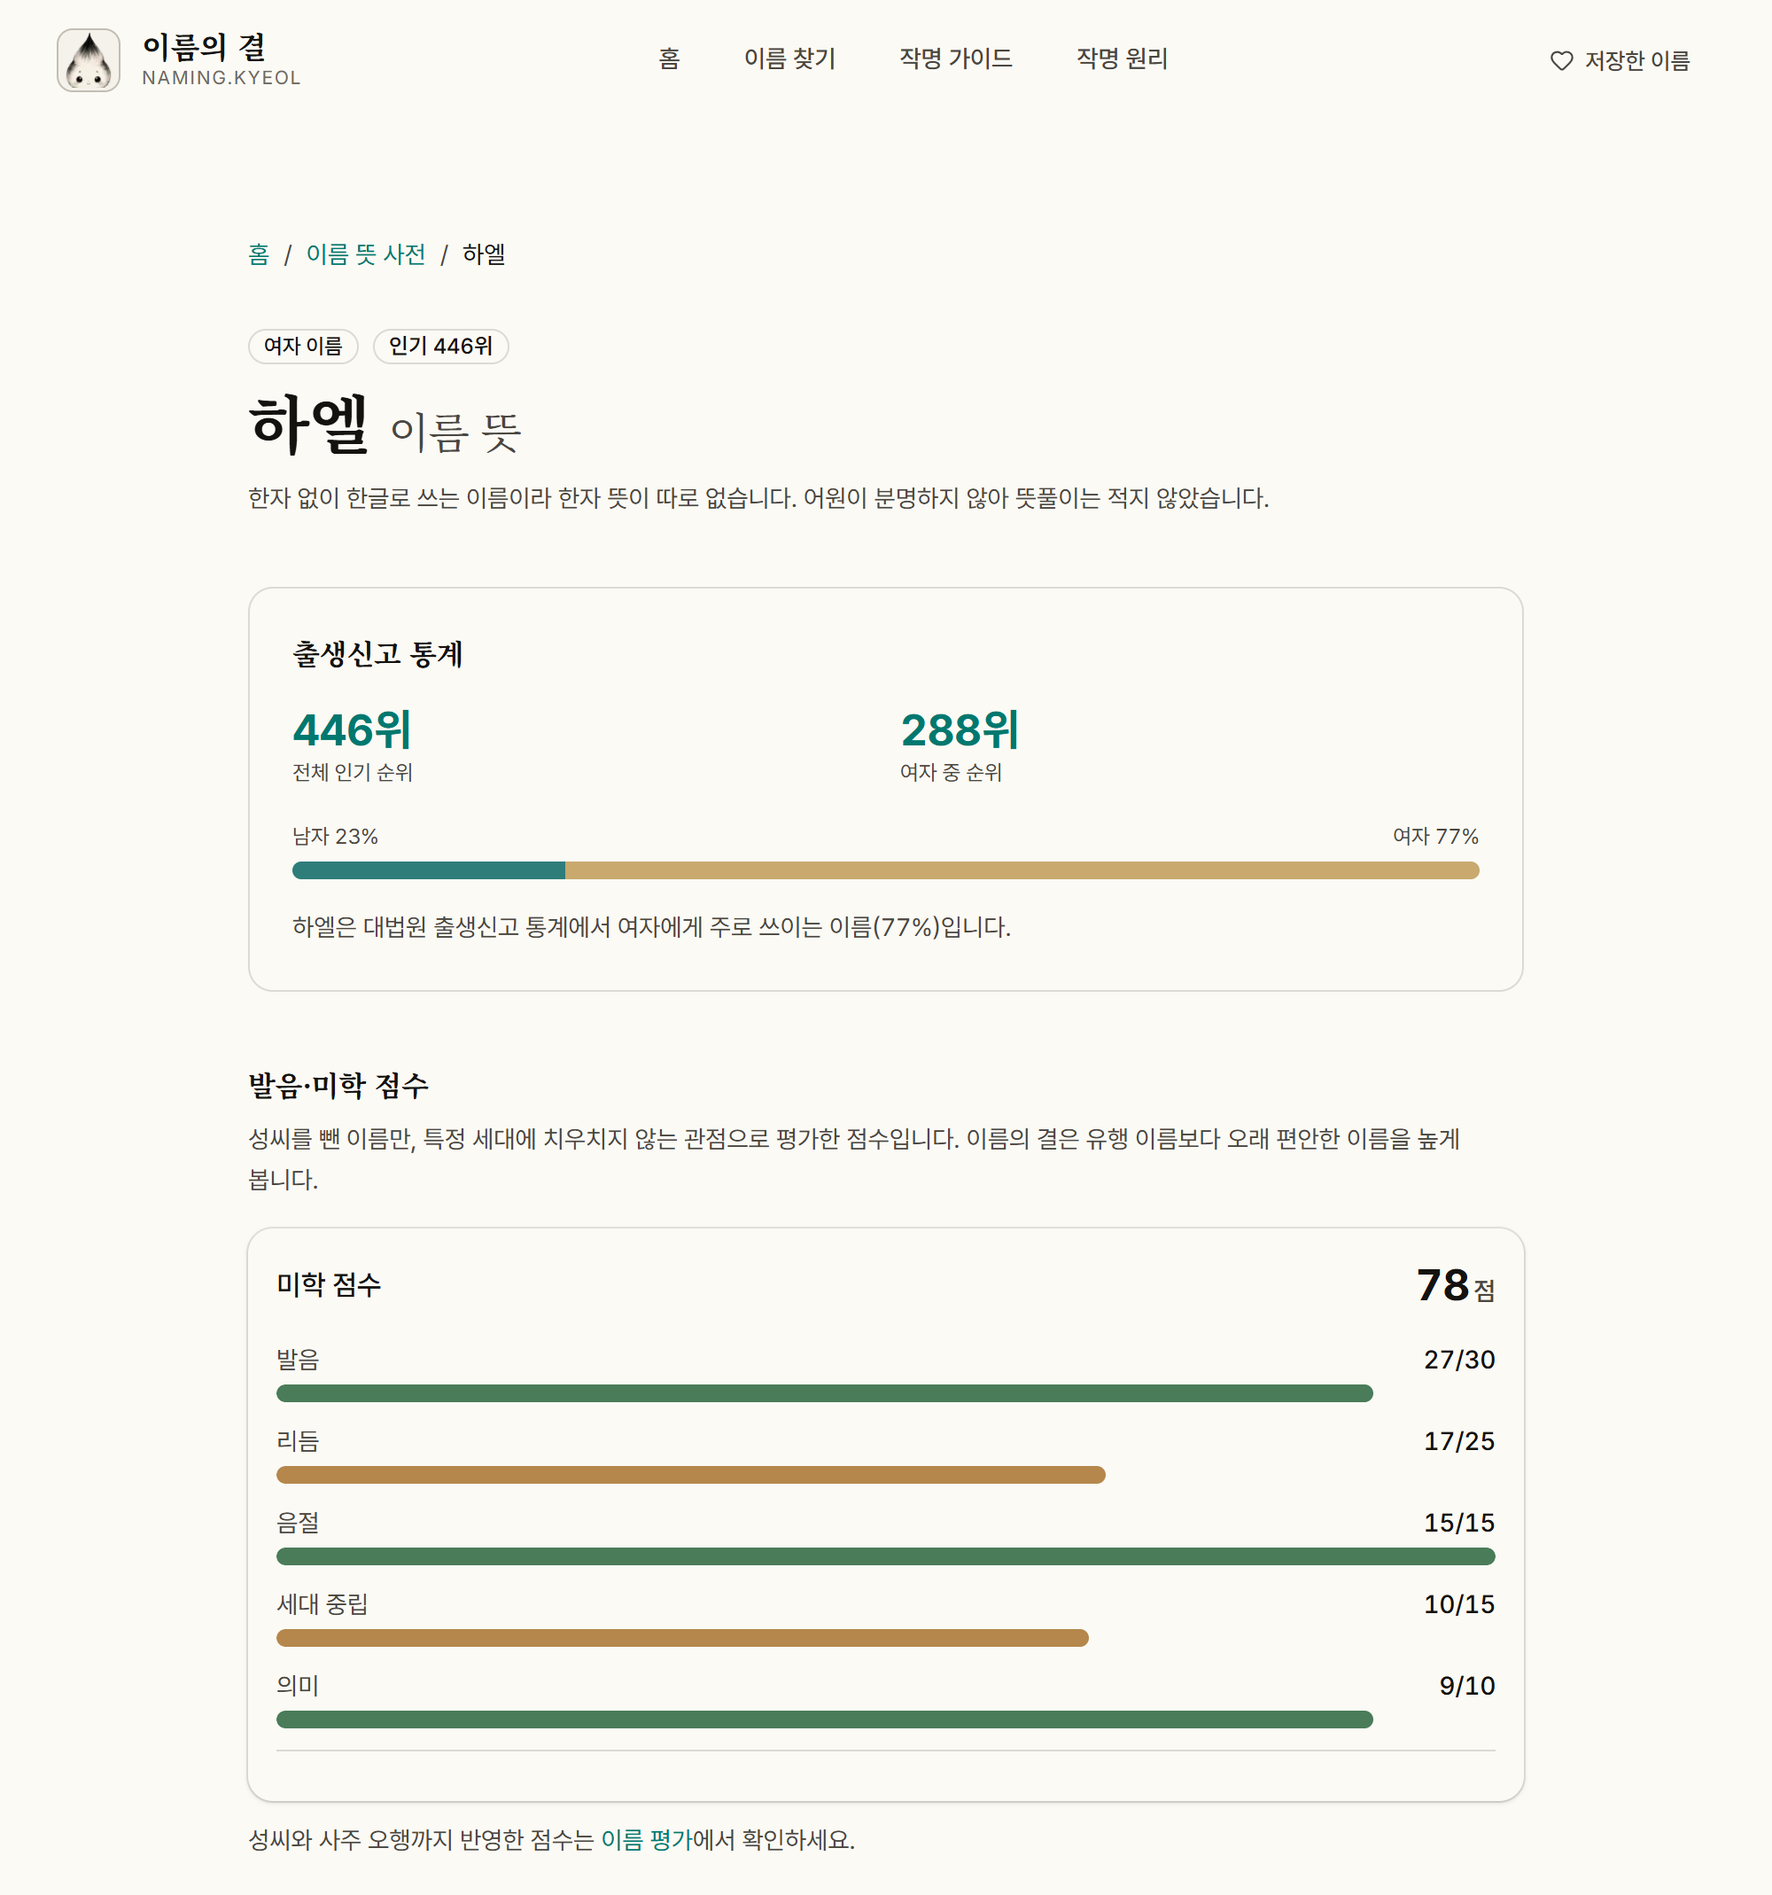
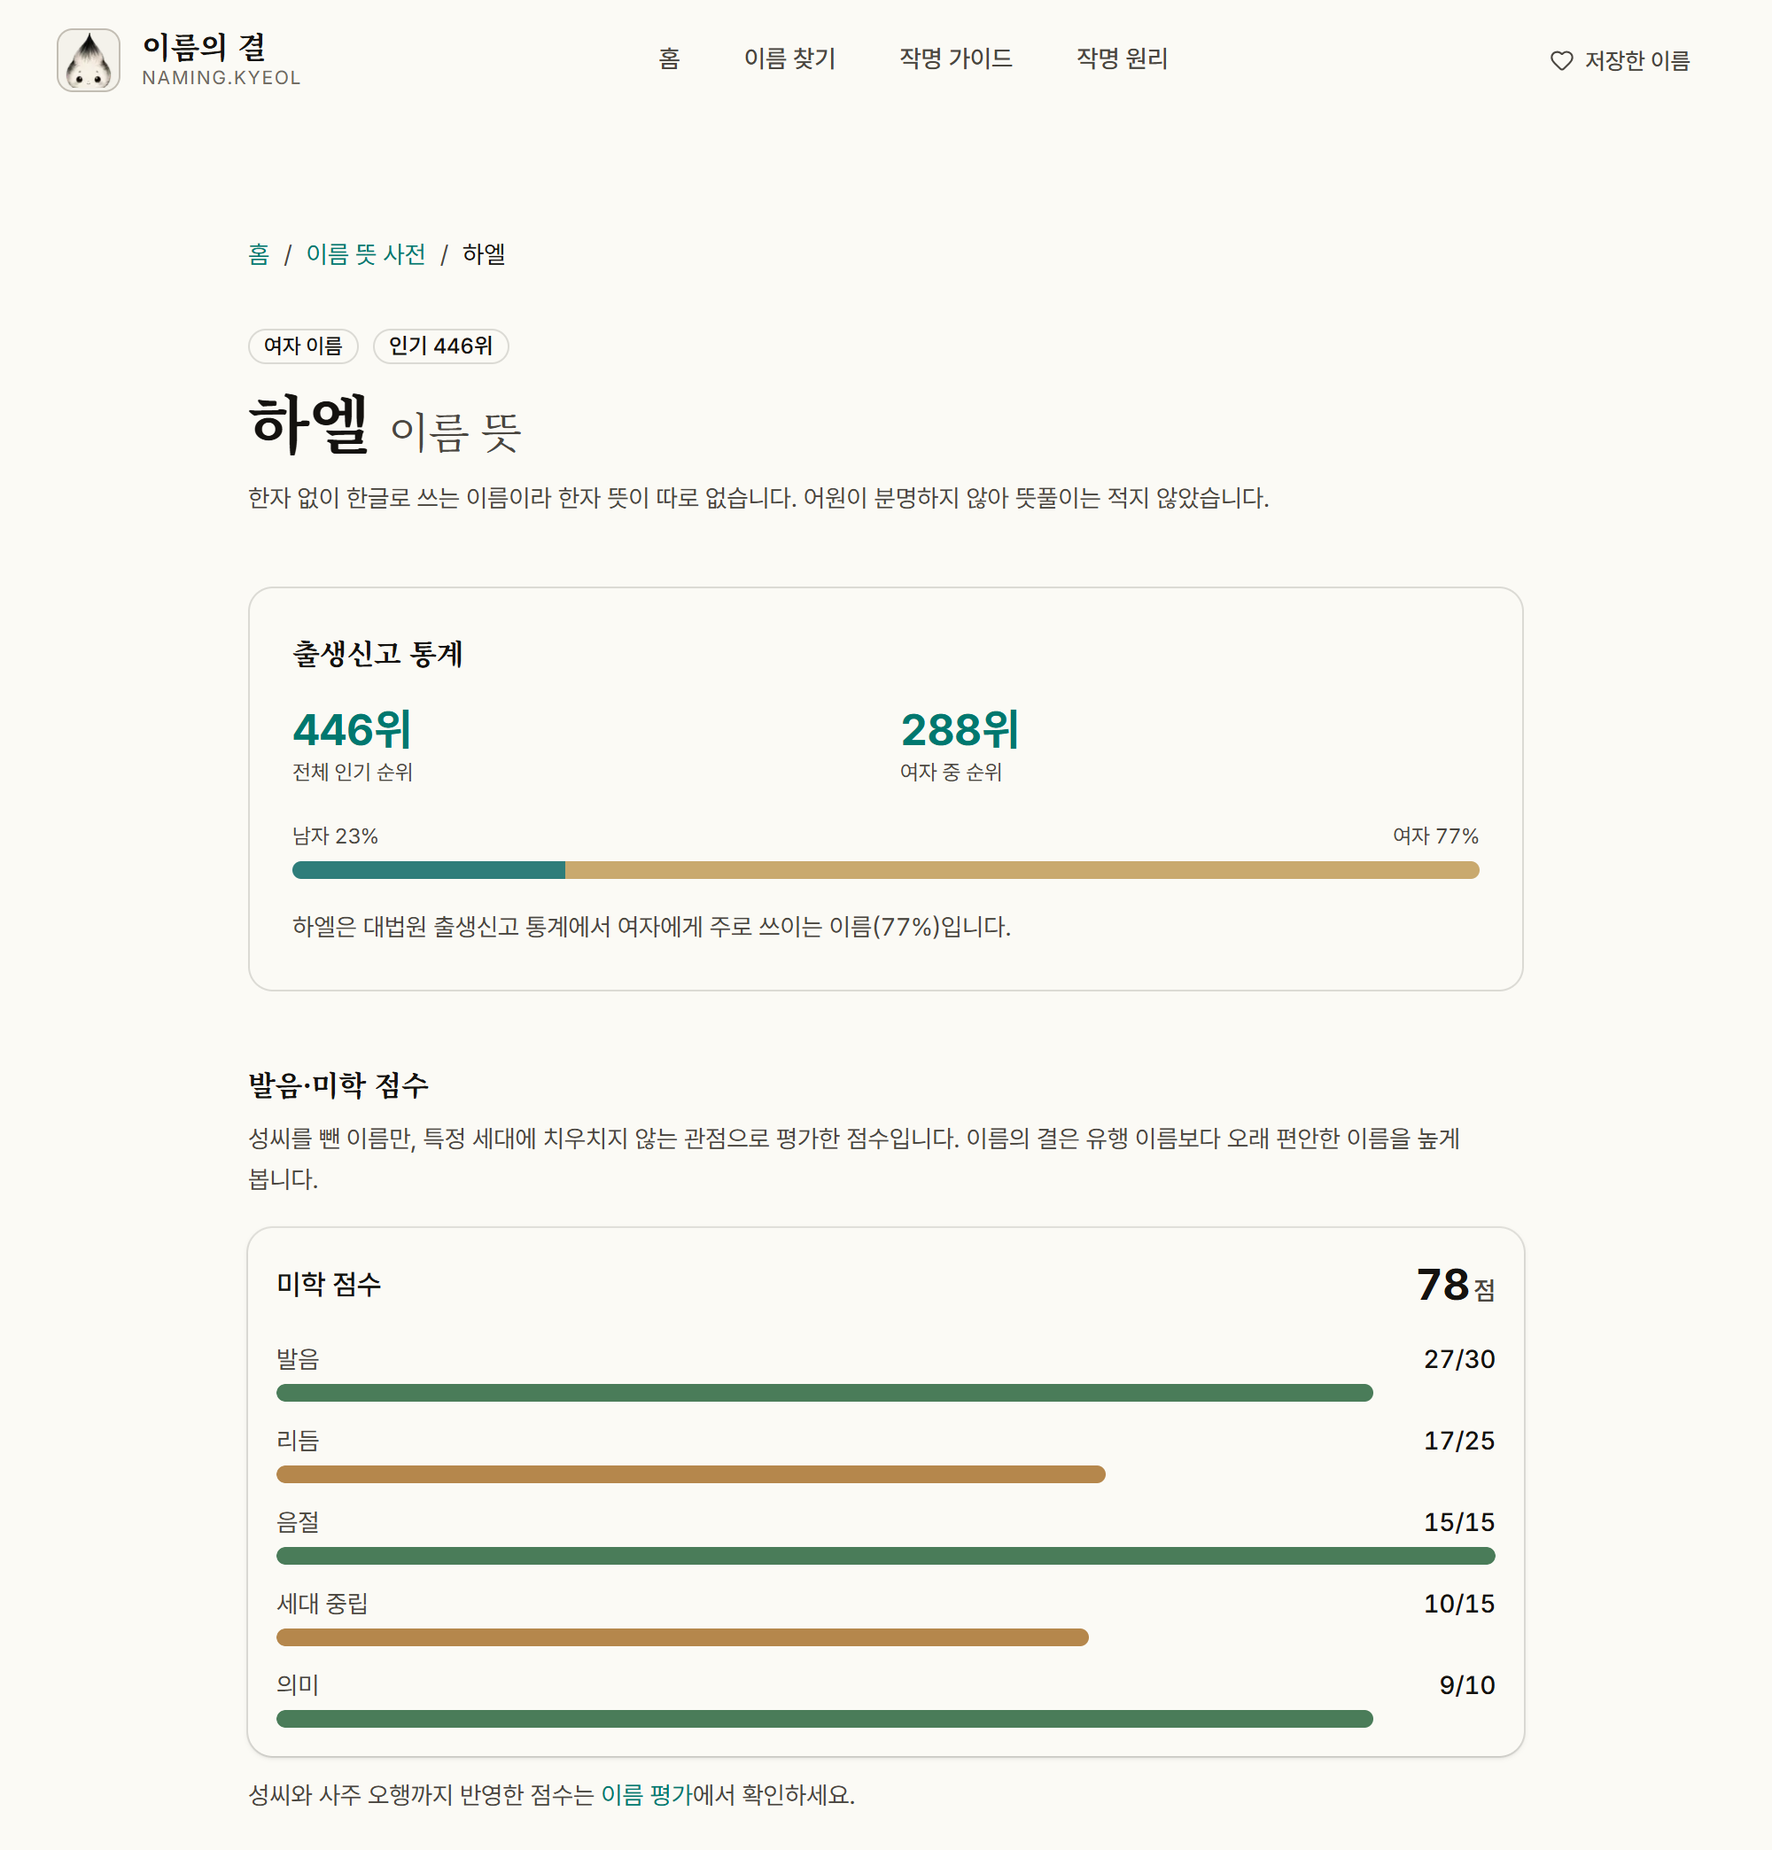
docs(blog): 하엘 캡처를 점수 카드 빈 구분선 수정 뒤 화면으로 다시 찍음(2000×2088) [skip render]
로컬 프로덕션 빌드(같은 커밋)에서 같은 틀로 — 옛 캡처와 빈 묶음 50px 말고는 픽셀까지 같다. 하온 kit 캡처(보류)·재원 초안 캡처는 수정이 운영에 올라간 뒤 찍도록 메모, CLAUDE.md 배포 주의 한 줄 정정.

diff --git a/docs/naver-blog/upload-1027/README.md b/docs/naver-blog/upload-1027/README.md
@@ -1,7 +1,8 @@
 # 10/27 배포 뒤 블로그 — 한결 고치기 + 선택 항목
 
 10/27 배포(사이트 2d0846c, 16:31 운영)로 이름 페이지의 한자 조합이 다시 바뀌었다. 발행 글에서 **꼭 고칠 곳은 한결 편 하나**이고,
-하엘은 아직 안 붙인 10/23 수정안의 캡처만 새로 바꿨다. 나머지는 고르면 된다. 이 폴더의 사진 6장은 모두 운영 페이지·데이터와 대조를 마쳤다.
+하엘은 아직 안 붙인 10/23 수정안의 캡처만 새로 바꿨다. 나머지는 고르면 된다. 이 폴더의 사진 6장은 모두 운영 페이지·데이터와 대조를 마쳤다
+— 2번 하엘 캡처는 수치가 지금 운영과 같고, 화면은 점수 카드 빈 구분선을 고친 다음 푸시 뒤 페이지와 같다(아래 2번).
 (번호는 upload-1023 과 다르다 — 이 폴더 안에서만 쓴다.)
 
 | 번호 | 글 | 할 일 | 사진 |
@@ -44,6 +45,9 @@
 
 10/23 수정안은 아직 발행본에 없다 — 발행본이 여전히 "하늘처럼 넓고 포근한"을 인용하는데 링크한 /name/하엘 에는 이 뜻이 없다. 보류 기록은 없다.
 붙이기로 하면 아래대로 한다. 바뀐 것은 캡처뿐이다: 10/23 캡처(81점)는 10/26 배포 뒤 낡아(지금 78점 · 성별 보너스 줄 없음) 같은 틀로 다시 찍었다.
+10/27 에 한 번 더 찍었다: 톤·성별 보너스·감점이 모두 0 인 이름은 '미학 점수' 카드가 의미 막대 밑에 빈 구분선과 여백(약 25px)을 그렸고(3,444명 · 공개 2,430 — 하엘 포함),
+이를 고친 ScoreBreakdownCard(2026-10-27)는 다음 푸시로 배포된다. 그래서 수정이 든 로컬 프로덕션 빌드(next start — 같은 커밋으로 푸시할 코드)에서 같은 틀로 찍었다 — 2000×2088
+(옛 2000×2138 에서 빈 묶음 50px 만 빠지고 나머지는 픽셀까지 같다, `../images/mean03-hael-page-2026-10.png` 도 같은 파일). 푸시 뒤 /name/하엘 과 같고, 푸시 전에 붙여도 수치는 같다.
 
 1. 문장 3곳 (발행본 문장 그대로):
    - `'엘'로 읽는 인명용 한자는 0자입니다` 섹션 끝:
@@ -62,7 +66,7 @@
    캡처를 '고쳤다'가 아니라 새로 넣는 것이라, 원하면 '본문과 페이지 캡처를 고쳤어요' → '본문을 고치고 페이지 캡처를 더했어요'.
 5. 발행 → ✓ 발행.
 
-- 기록: `../posts/12-하엘-이름-뜻.md` '2026-10-23 본문 수정안'(이미지 2 항목에 10/27 반영 줄).
+- 기록: `../posts/12-하엘-이름-뜻.md` '2026-10-23 본문 수정안'(이미지 2 항목에 10/27 반영 줄·구분선 수정 줄).
 
 ## 3~6. 정·우·온·아 표 사진 (선택)
 
@@ -94,7 +98,8 @@
 
 - 로아 편: 10/23 수정안은 보류 그대로(일기⑤가 '손대지 않았다'고 밝힘). 되살릴 때를 위해 `../posts/06` 수정안과 표 `../images/post06-roa-hanja-table-v2.png` 를
   지금 조합 璐娥·璐雅·路雅·**鷺娥**(路娥 가 빠짐)에 맞춰 고쳐 두었다. 로아 캡처(86점)는 그대로 맞다.
-- 하온·일기①: 보류 그대로. 하온 수정안의 문장·사진은 지금도 맞다.
+- 하온·일기①: 보류 그대로. 하온 수정안의 문장·표 사진은 지금도 맞다. 페이지 캡처(83점)는 값은 같지만 점수 카드 빈 구분선이 찍혀 있어
+  되살릴 때 구분선 수정이 운영에 올라간 뒤 다시 찍는다(`../posts/09` 이미지 2).
 - 은 편: 10/28 이후 붙일 10/23 수정안(`../posts/20`)은 이번 배포의 영향이 없다(메모의 재집계 숫자만 고침).
 - 3편 로운 鷺澐 · 진 편 유진 柔眞: 쓸 수 있는 한자 예시라 그대로(`../posts/03`·`05` 메모 — 진 편은 굳이 맞추면 `柔津과 有眞은`).
 - 1·2편, 다온·희재·유 편, 일기⑤: 바뀐 인용 값 없음. /hanja 캡처는 전부 그대로다.
@@ -107,4 +112,4 @@
   두 표 모두 발행일에 다시 세어 값이 다르면 또 만든다(11/01 에 예흔 등이 열린다).
 - **일기②(초안 24)**: 소망 카드 순서 素望·紹望·蘇望·昭望, 蘇 훈 '되살아날 소' — 캡처는 지금 찍어도 된다.
 - **일기④(초안 26)**: 불용 993자(사전 표시 991자)로 고쳐 두었다.
-- **재원(초안 22)**: 바뀐 것 없음 — /name/재원 캡처(72점)는 지금 찍어도 된다.
+- **재원(초안 22)**: 바뀐 것 없음 — /name/재원 캡처(72점)는 점수 카드 구분선 수정이 운영에 올라간 뒤 찍는다(보너스 줄이 없어 지금 찍으면 빈 구분선이 들어간다).

diff --git a/docs/naver-blog/posts/12-하엘-이름-뜻.md b/docs/naver-blog/posts/12-하엘-이름-뜻.md
@@ -193,16 +193,21 @@ https://namingkyeol.com/name/하엘?utm_source=naver_blog&utm_medium=post&utm_ca
         → `라엘 89%, 하엘·나엘 77%, 이엘 76%가 여자아이 — 표에 못 넣은 다엘(1,013명, 남 56%)만 균형 근처예요(역시 표 밖인 시엘 265명·주엘 246명·리엘 226명도 조어 쪽입니다).`
       - `아래쪽 성경계는 반대로 전부 남초입니다 — 다니엘·사무엘 99%, 요엘 88%, 조엘 74%.`
         → `아래쪽 성경계는 반대로 전부 남초입니다 — 다니엘·사무엘 99%, 요엘 88%, 표 밖의 조엘(94명)도 74%.`
-  - 이미지 2(페이지 캡처) 교체: `images/mean03-hael-page-2026-10.png` (2000×2138) — 운영 /name/하엘 첫 화면(1000×1180, 2배 —
+  - 이미지 2(페이지 캡처) 교체: `images/mean03-hael-page-2026-10.png` (2000×2088) — /name/하엘 첫 화면(1000×1180, 2배 —
     아래 잘린 '음절별 한자 전체 보기' 제목 줄은 잘라 냄). 옛 캡처의 '하늘처럼 넓고 포근한 이름'과 서사 인용 자리에 위 첫 줄이 보이고,
     출생신고 통계(전체 446위 · 여자 중 288위 · 여자 77%)와 발음·미학 점수(78점)까지 들어 있어 3번 수정문과 맞는다.
     - 2026-10-27 배포 반영: 10/26 배포(9a6f510)부터 /name/하엘 은 78점이고 '성별 보너스 +3' 줄과 '음절 성별 선호도가 여자 이름과 잘 맞음'
       노트가 없다(발음 27 · 리듬 17 · 음절 15 · 세대 중립 10 · 의미 9 는 그대로, 10/27 배포(2d0846c)에서도 같음 — 운영 페이지·name-seo.json 확인).
-      10/23 캡처(81점 · +3 · 노트, 2000×2268)가 낡아 같은 틀로 다시 찍어 같은 파일을 덮었다 — 카드가 두 줄 짧아져 2000×2138.
+      10/23 캡처(81점 · +3 · 노트, 2000×2268)가 낡아 같은 틀로 다시 찍어 같은 파일을 덮었다 — 카드가 두 줄 짧아져 2000×2138(아래 구분선 수정 뒤 한 번 더 찍어 지금은 2000×2088).
       `upload-1027/2-하엘-캡처-새것.png` 가 같은 파일이다. 머리 메뉴 '홈'이 굵게 표시되지 않는 것은 사이트 메뉴 수정(10/25) 때문이다.
       붙일 수정문 3곳과 글 끝 수정 안내에는 점수 숫자가 없어 그대로 쓴다. 표 v2(`mean03-hael-table-v2.png`)의 '-엘' 성비 값도 그대로다.
       ⚠ 발행본(m.blog 10/27 수집)에는 사진이 표 1장(`mean03-hael-table.png`)뿐이다 — 이 캡처는 교체가 아니라 말미 링크 문장 아래에 새로 넣는다.
       그래서 글 끝 수정 안내의 '본문과 페이지 캡처를 고쳤어요'는 원하면 '본문을 고치고 페이지 캡처를 더했어요'로 바꾼다. 붙이는 순서는 `upload-1027/README.md` 2번.
+    - 2026-10-27 점수 카드 구분선 수정 반영: 톤·성별 보너스·감점이 모두 0 인 이름은 '미학 점수' 카드가 의미 막대 밑에 빈 구분선과 여백(약 25 CSS px)을
+      그렸다(3,444명 · 공개 2,430 — 하엘도). 이를 없앤 ScoreBreakdownCard 수정(2026-10-27)은 다음 푸시로 배포되므로, 수정이 든 로컬 프로덕션 빌드
+      (next start — 같은 커밋으로 푸시할 코드)에서 같은 틀로 다시 찍어 두 파일을 덮었다 — 2000×2088. 옛 2000×2138 과 대조하면 의미 막대 밑 빈 묶음 50px(2배)만
+      빠지고 나머지는 픽셀까지 같다(78점 · 발음 27 · 리듬 17 · 음절 15 · 세대 중립 10 · 의미 9 · 446위 · 288위 · 여자 77% 그대로, 맨 아래 '성씨와 사주 오행까지…' 줄까지).
+      그래서 이 캡처는 푸시 뒤 /name/하엘 과 같다 — 푸시 전에 붙여도 수치는 같고 운영 화면에만 빈 줄 하나가 더 있다.
 - **그대로 둔 것과 이유**:
   - 하엘 통계(누적 2,635명 · 남 613 · 여 2,022 · 여 77% · 전체 446위), 표 이미지 8행(조어계 4 · 성경계 3 · 중간 지대 노엘 1)과
     본문 성비(라엘 89%, 다엘 1,013명 남 56%, 다니엘·사무엘 99%, 요엘 88%, 조엘 94명 74%, 노엘 333명 남 54% — 다엘·조엘은 이미지 밖),

diff --git a/CLAUDE.md b/CLAUDE.md
@@ -778,7 +778,7 @@ Home v2 / Badges / Spacing & Typography). `docs/claude-design-brief.md` 참조.
   `HyeongCommonHanja_StayMale_ViaOverrideFile`(옛 이름 _NotOverridden)·키 코드포인트 순 단언. `Gender_ShownOppositeHanja_IsMismatch` 의 /evaluate 사례는 유찬 燦(이제 裕燦 0)에서 혜성(남) 惠星(惠 하드코딩 Female)으로 바꿨다.
   배포 주의(오분류 정리 뒤 최종 수치 — 정리 전과 같다): 블로그 하엘 편 교체 캡처 `docs/naver-blog/images/mean03-hael-page-2026-10.png`(81점·+3·'잘 맞음')는 배포 뒤 78점·노트 없음으로
   낡는다(수정 메모의 '(81점)'도). 발행 이름 편에 /name 캡처를 실었다면 점수 카드가 달라진다(희재 81→85·노트 사라짐, 한결 72→71·노트 둘 사라짐 — 본문은 점수를 인용하지 않음).
-  재원(미발행 — 73→72·노트 둘 사라짐) 캡처는 배포 뒤에 뜰 것. 하온 83·로아 86(+5 '잘 맞음') 캡처는 그대로다. 블로그 밖에서 점수를 인용했다면 운영 대비 요한 84→79·우빈 80→75·
+  재원(미발행 — 73→72·노트 둘 사라짐) 캡처는 배포 뒤에 뜰 것. 로아 86(+5 '잘 맞음') 캡처는 그대로, 하온 83 캡처는 값은 같고 점수 카드 빈 구분선(10/27 수정 전 화면)이 찍혀 있어 되살릴 때 다시 찍는다. 블로그 밖에서 점수를 인용했다면 운영 대비 요한 84→79·우빈 80→75·
   수빈 80→75·서빈 84→79·찬빈 80→75·유찬 75→70(형준·준형 80 그대로)
 - ~~**한자 성별 분류 오분류가 화면에 드러남(결정 ③ 뒤)**~~ (2026-10-26 해소 — 사용자 결정: 오분류를 고친 뒤 배포, ③ 의 전반적 점수 하락은 받아들인다):
   문제: 보이는 한자로 판정하자 키워드 분류로 성별이 붙은 글자가 인기 이름 1순위 조합에 올라 '맞지 않음'(−2)을 냈다 — ③ /name '맞지 않음' 342명(남 335) 중 1순위 조합 글자

diff --git a/docs/naver-blog/posts/09-하온-이름-뜻.md b/docs/naver-blog/posts/09-하온-이름-뜻.md
@@ -186,6 +186,9 @@ https://namingkyeol.com/name/하온?utm_source=naver_blog&utm_medium=post&utm_ca
 - 이미지 2(사이트 캡처) 교체는 **선택(권장)** — `images/mean02-haon-page-2026-10.png` (운영 /name/하온 첫 화면, 2000×2300 — 출생신고 통계 +
   발음·미학 점수 카드). 옛 캡처(이름 머리 ~ 통계 카드)에는 틀린 값이 없다(대표 뜻·서사·289위·48/52 그대로). 바꾸면 옛 캡처의 '하온은(는)'
   조사 표기가 '하온은'으로 바뀌고, 바로 위 문장 '네 조합의 통계와 점수'의 점수 카드까지 한 장에 들어온다. 조합 카드는 첫 화면 밖이다.
+  - 2026-10-27 점수 카드 구분선: 이 캡처에는 의미 막대 밑에 빈 구분선과 여백이 찍혀 있다(하온은 톤·성별 보너스·감점이 모두 0). 그 묶음을 없앤
+    ScoreBreakdownCard 수정(10/27)이 다음 푸시로 배포되면 화면과 빈 줄 하나만큼 어긋난다 — 점수(83점)·통계는 그대로. 수정안이 보류 중이니 되살릴 때
+    수정이 운영에 올라간 뒤 같은 틀로 다시 찍는다.
 
 ### 그대로 둔 것과 이유
 

diff --git a/docs/naver-blog/posts/22-재원-이름-뜻.md b/docs/naver-blog/posts/22-재원-이름-뜻.md
@@ -203,4 +203,5 @@ https://namingkyeol.com/name/재원?utm_source=naver_blog&utm_medium=post&utm_ca
 ## 2026-10-27 배포 뒤 확인 (바뀐 것 없음)
 
 - /name/재원 은 10/27 배포(2d0846c)에서 바뀌지 않았다 — 조합 宰園·宰源·才園·才源, 대표 뜻 '세상을 이끄는 넉넉한 동산'·서사 그대로,
-  발음·미학 점수 72점·성별 노트 없음(9a6f510 과 같음, 운영 페이지 확인). 계획된 이미지 2(/name/재원 캡처)는 **지금 찍어도 된다**.
+  발음·미학 점수 72점·성별 노트 없음(9a6f510 과 같음, 운영 페이지 확인). 계획된 이미지 2(/name/재원 캡처)는 **점수 카드 구분선 수정이 운영에 올라간 뒤 찍는다**
+  (2026-10-27 — 재원은 톤·성별 보너스·감점이 모두 0 이라 지금 운영에서 찍으면 의미 막대 밑에 빈 구분선과 여백이 들어간다. 이를 없앤 ScoreBreakdownCard 수정은 다음 푸시로 배포).
